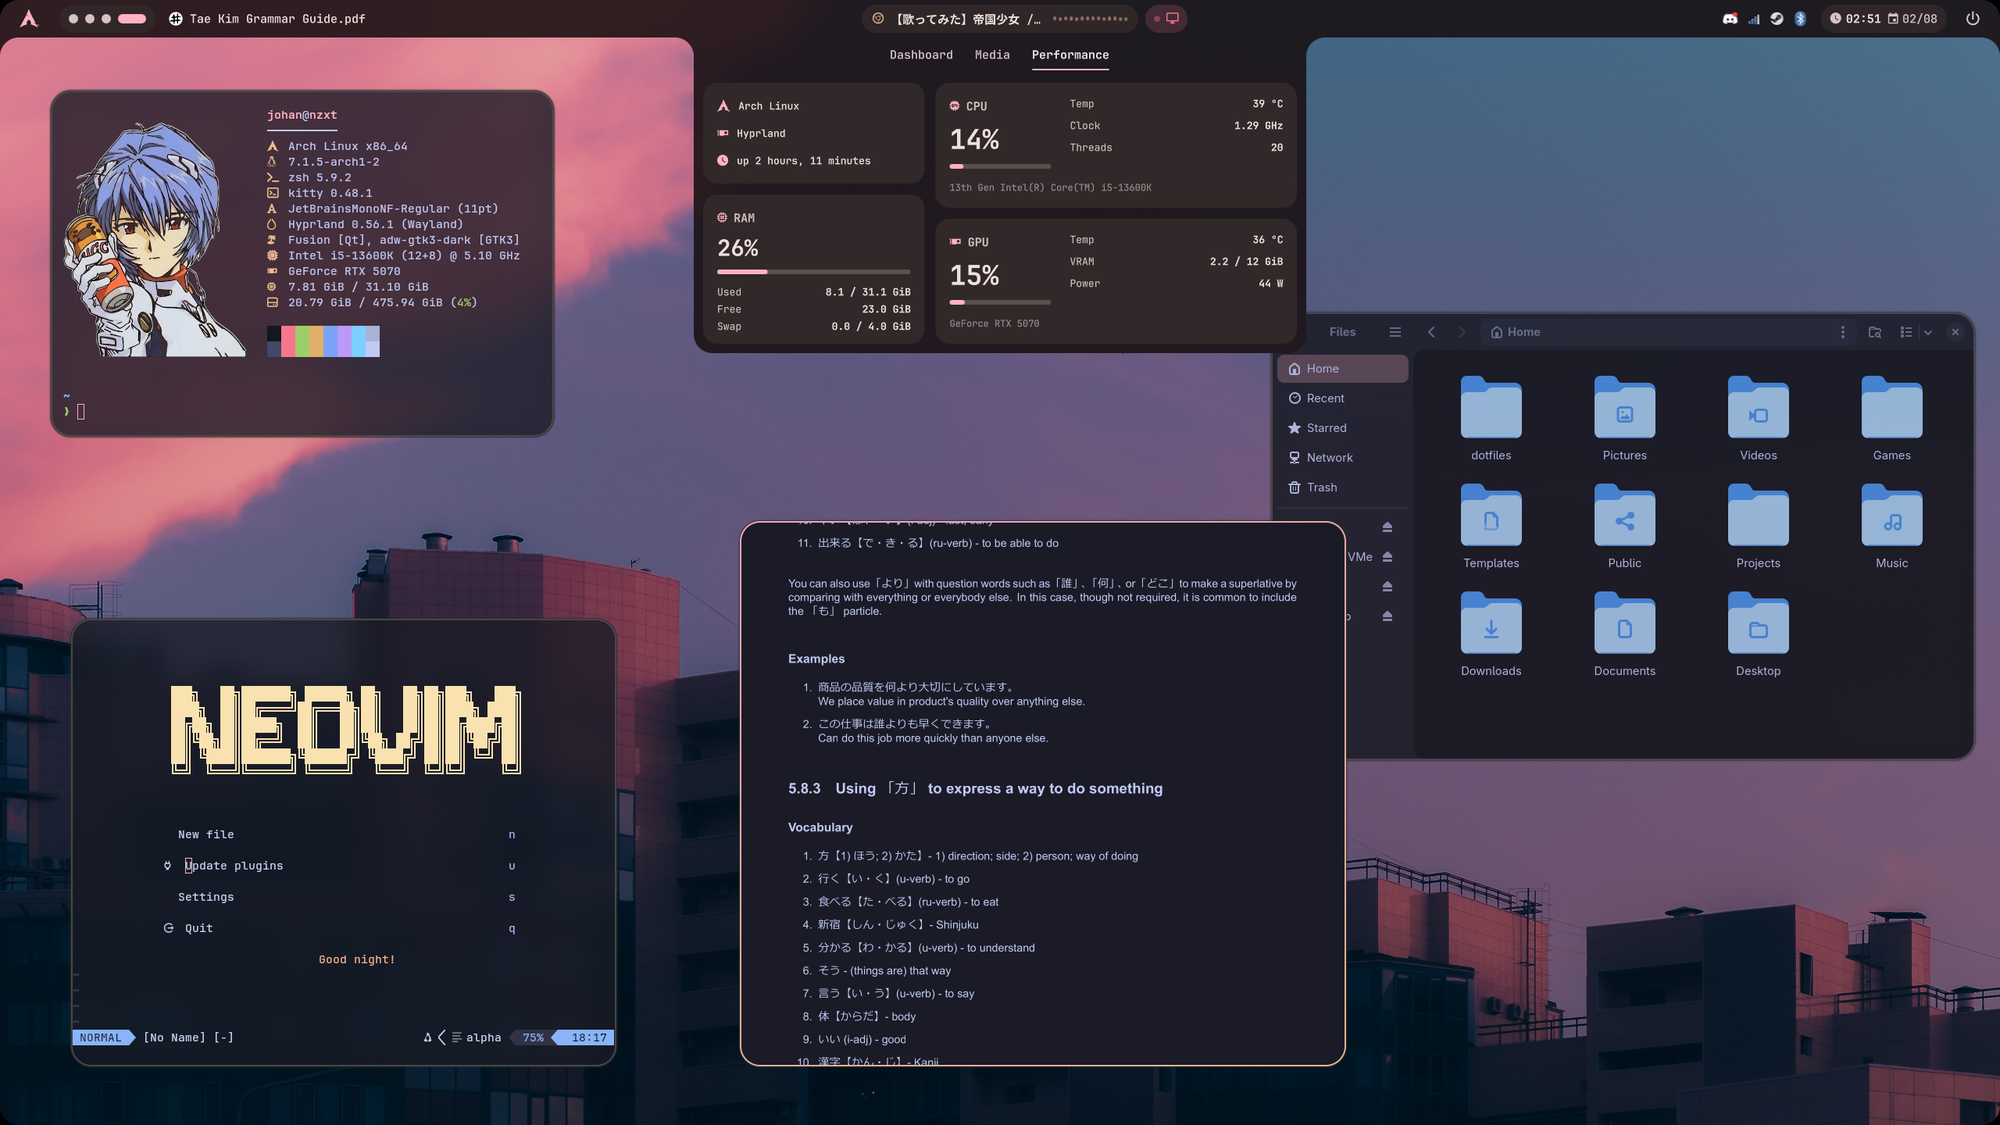
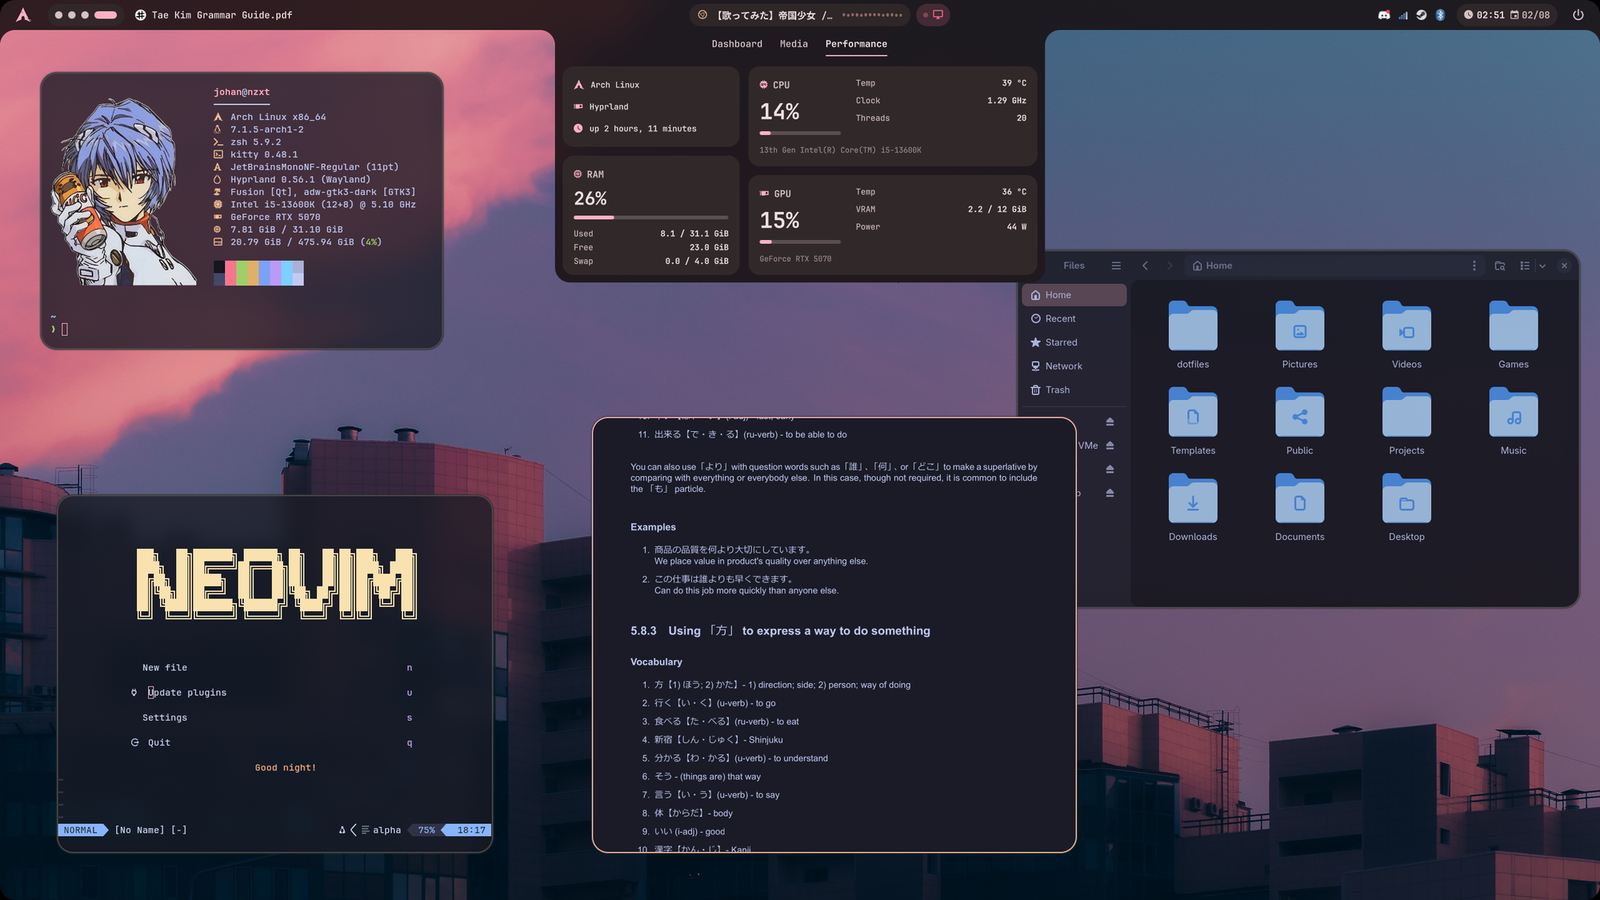
Add a second screenshot, on a different wallpaper
One shot cannot show the thing this repo is actually about: the palette is
generated from the wallpaper, so it takes two wallpapers to see it. The second
also shows the island's dashboard, which the first one only hints at.

Both are downscaled to 1600x900. The README's own rule about not carrying
large binaries applies to its own images, and GitHub renders them at less than
half that width anyway.

Changed region(s): [[0.2188, 0.6533, 0.25, 0.6844], [0.1875, 0.6222, 0.2188, 0.6533], [0.0938, 0.6533, 0.125, 0.6844]]

diff --git a/README.md b/README.md
@@ -10,6 +10,14 @@
     <img src="assets/preview.png" alt="The desktop: Quickshell's bar with the island open on its Performance tab, fastfetch in kitty, neovim, Nautilus and zathura" width="100%">
 </p>
 
+<p align="center">
+    <img src="assets/preview-dashboard.png" alt="The same shell on a green palette, with the island's dashboard open: clock, calendar, volume, Wi-Fi, Bluetooth, the screen recorder and the instant replay buffer" width="100%">
+</p>
+
+<p align="center">
+    <sub>Same shell, two wallpapers. Every colour above is generated from the image behind it.</sub>
+</p>
+
 ---
 
 | | |
@@ -77,7 +85,7 @@ icons/      .local/share/icons/      app icons that don't ship with their packag
 bin/        .local/bin/              6 scripts + the capture-card desktop entry
 packages/   pacman and AUR package lists
 system/     copies of /etc — reference only, NOT symlinked
-assets/     the screenshot at the top of this file
+assets/     the screenshots at the top of this file
 ```
 
 `--no-folding` matters and the installer uses it: it links file by file instead
